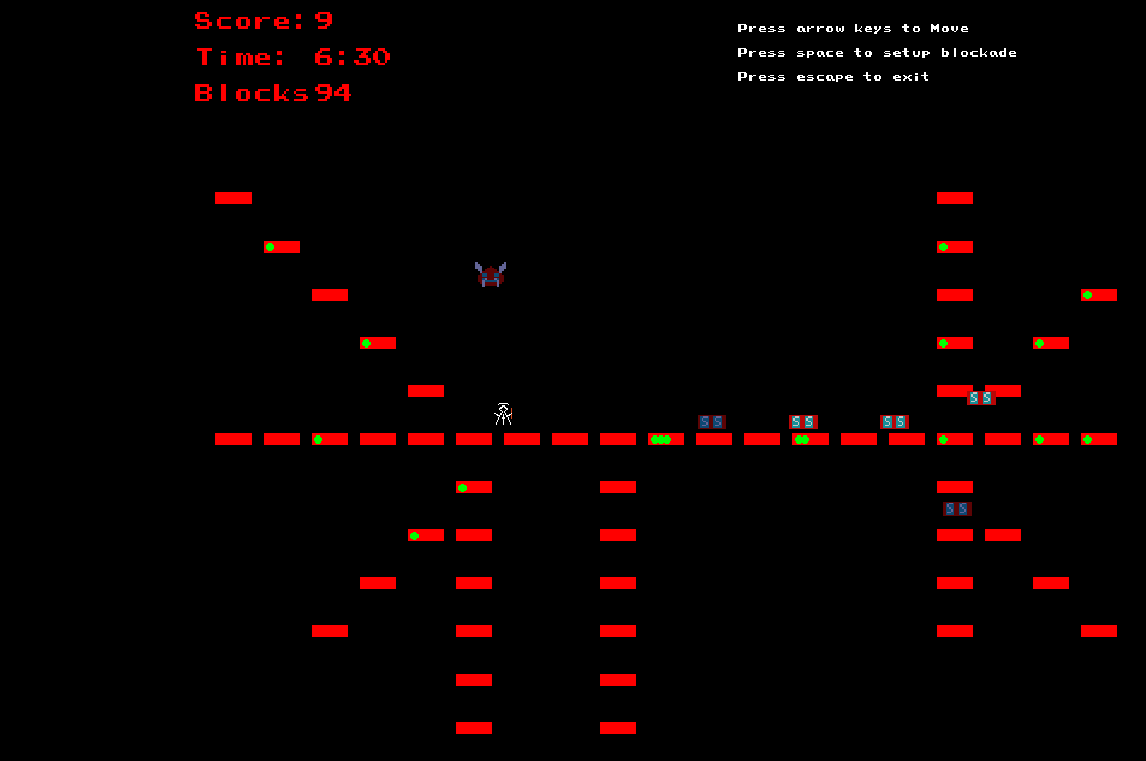
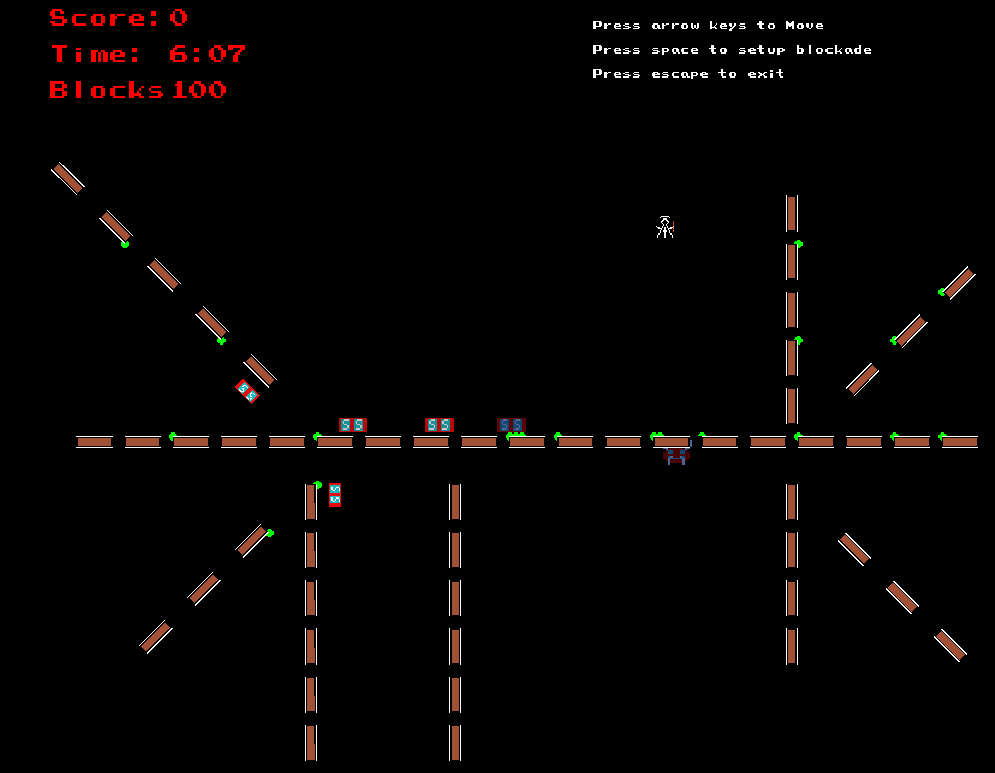
Updating Screenshot

diff --git a/Mvv Deifi.cpp b/Mvv Deifi.cpp
@@ -855,7 +855,7 @@ public:
 int main()
 {
 	App game;
-	if (game.Construct(1024, 730, 1, 1))
+	if (game.Construct(1024, 730, 4, 4))
 		game.Start();
 	return 0;
 }
